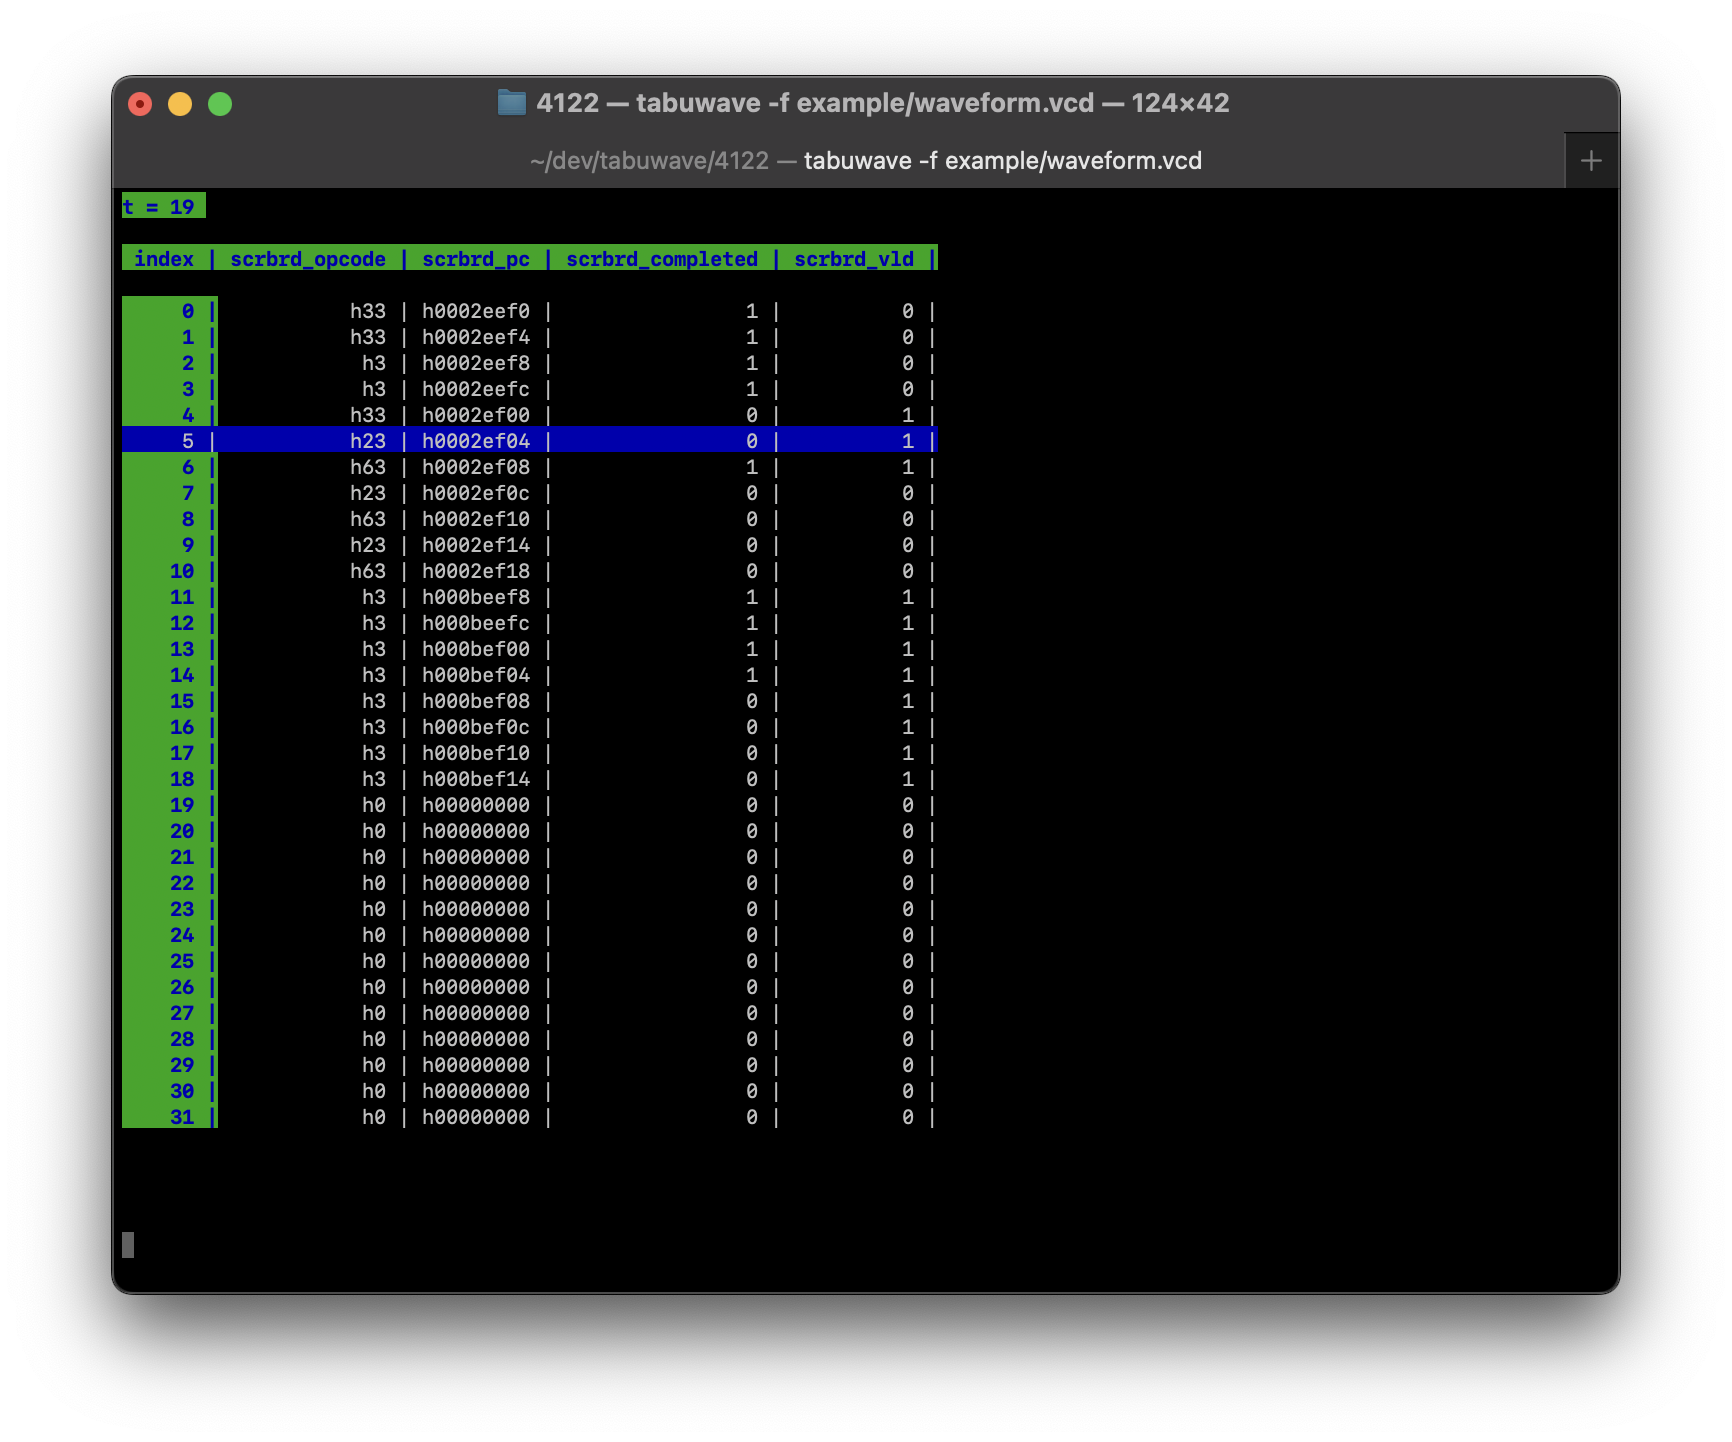
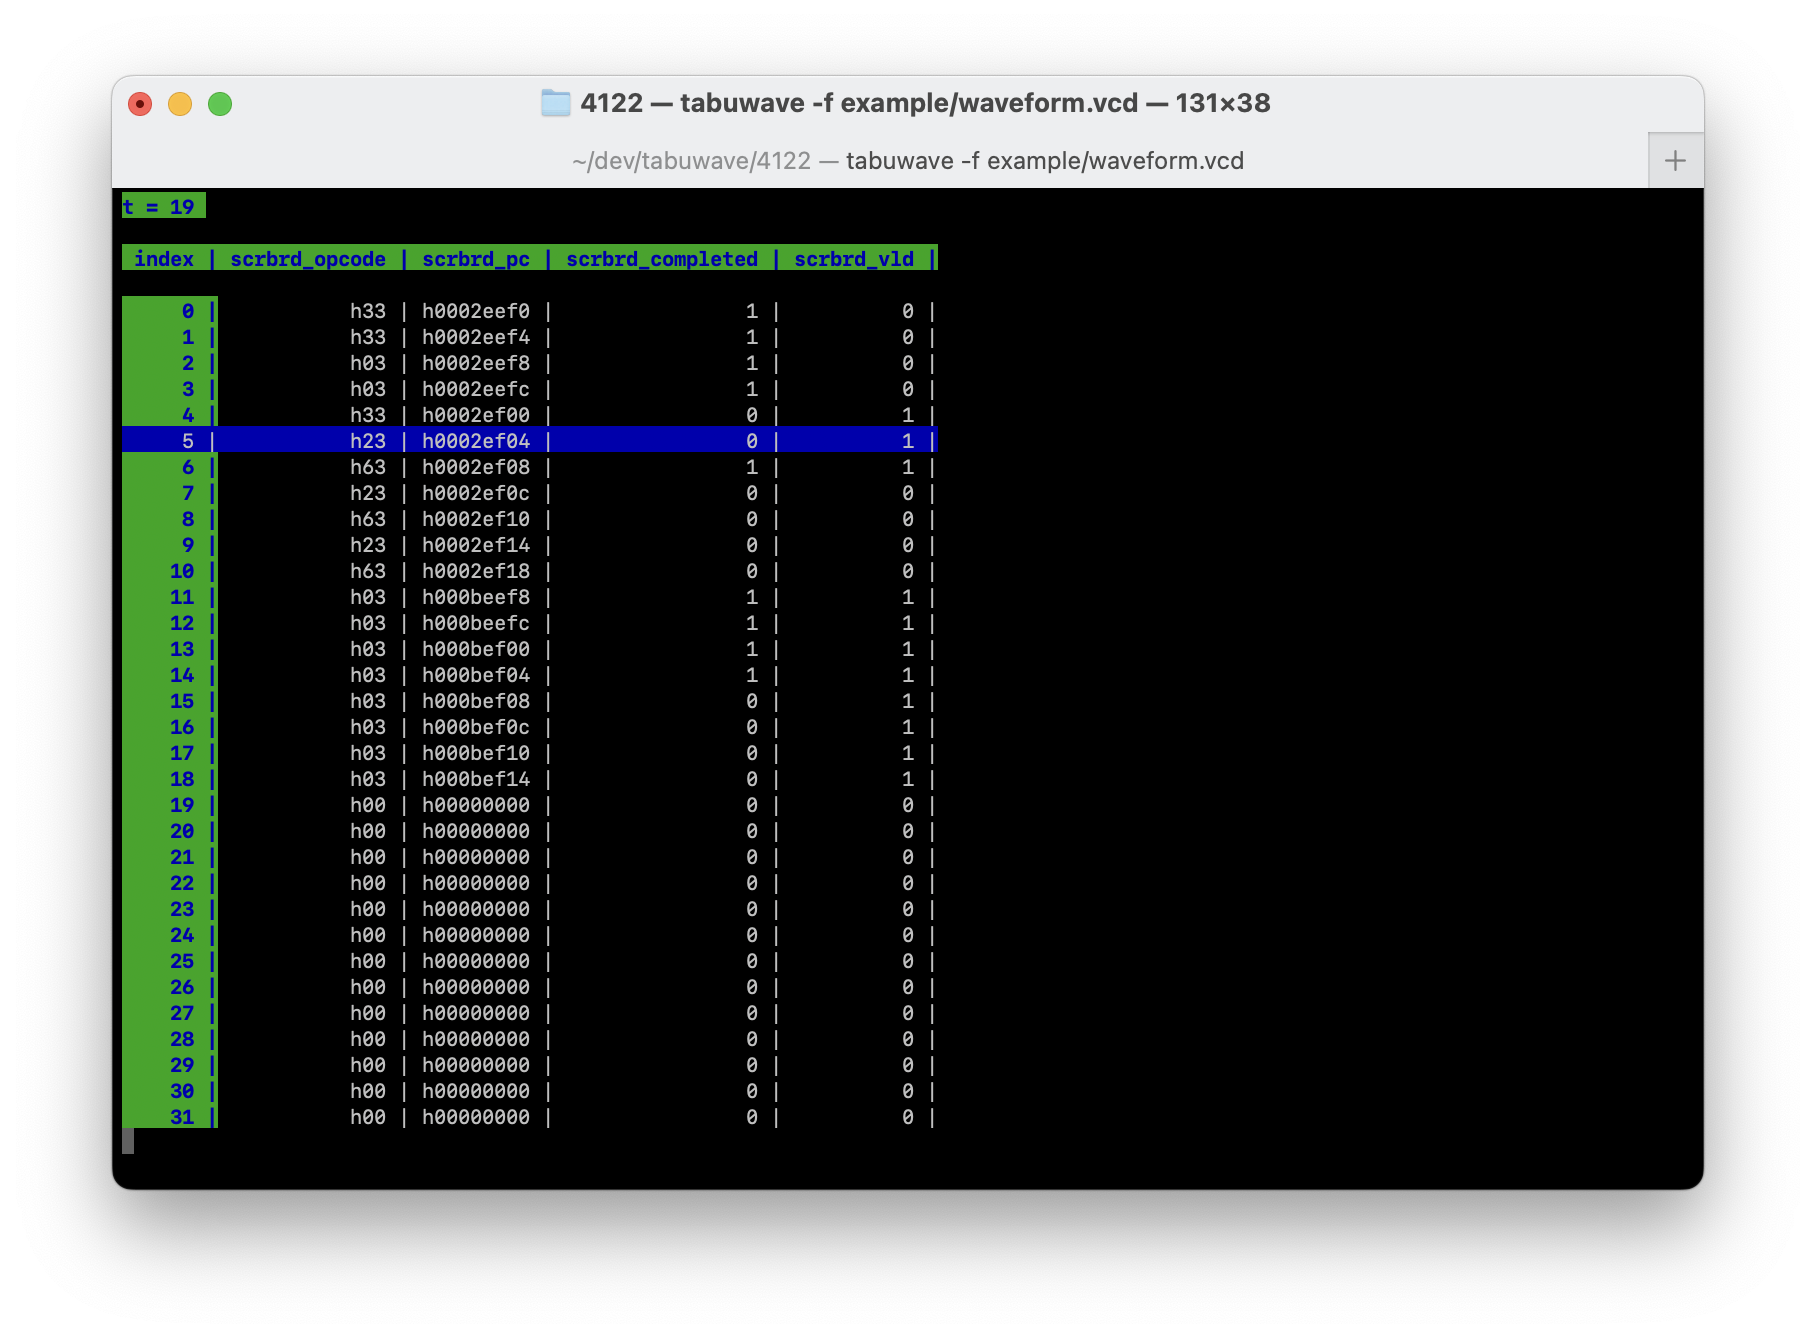
display width padding bugfix

Changed region(s): [[0.0312, 0.0306, 0.9665, 0.9499]]

diff --git a/src/Vcd.cpp b/src/Vcd.cpp
@@ -43,7 +43,7 @@ const std::string VcdVar::getRawValueAt(uint64_t time) {
     bin_val = bin_val.substr(1, bin_val.size());
     std::ostringstream stringStream;
     if (size > 1) {
-        stringStream << 'h' << std::hex << std::setw(ceil(size / 4));
+        stringStream << 'h' << std::hex << std::setw(ceil(size / 4.0));
         if (bin_val.at(0) == 'x') {
             stringStream << std::setfill('x') << 'x';
         } else {
@@ -66,7 +66,7 @@ size_t VcdVecScope::getSize() {
 }
 
 size_t VcdVecScope::getWidth() {
-    return std::max(name.size() + 1, (size_t) ceil(dynamic_cast<VcdVar*>(children.begin()->second)->getSize() / 4) + 2);
+    return std::max(name.size() + 1, (size_t) ceil(dynamic_cast<VcdVar*>(children.begin()->second)->getSize() / 4.0) + 2);
 }
 
 const std::vector<std::string> VcdVecScope::getValueAt(uint64_t time, size_t size) {

diff --git a/README.md b/README.md
@@ -26,7 +26,7 @@ module load boost
 make            # to use std::thread multithreading
 make USE_OMP=1  # to use OpenMP
 
-./tabuwave -f vcd/test.vcd 
+./tabuwave -f example/waveform.vcd 
 ```
 NOTE: The `ncurses` dynamic library on PACE-ICE causes a segfault when `newpad` is called, so the TUI is essentially unusable there. However, you can still run on PACE-ICE to see the parse times and value interval processing times.
 
@@ -34,7 +34,7 @@ NOTE: The `ncurses` dynamic library on PACE-ICE causes a segfault when `newpad` 
 
 Run with (for example):
 ```
-./tabuwave -f vcd/test.vcd 
+./tabuwave -f example/waveform.vcd 
 ```
 See help text with `-h`
 
@@ -66,6 +66,8 @@ When run, Tabuwave will perform parsing and preprocessing and report the process
 
 # Example
 
+When would you use a tabular waveform viewer? 
+
 Suppose you have designed a simple processor, and an assertion for your design related to verifying load behavior failed at t=19ps. You have a scoreboard-type data structure to keep track of instructions which is represented as arrays (`scrbrd_pc`, `scrbrd_opcode`) and masks (`scrbrd_completed`, `scrbrd_vld`), and to debug help the failure, you want to find the PCs for all the loads that haven't completed yet.
 
 In a traditional waveform viewer (GTKWave shown below), the unpacked arrays and multibit signals are laid out in vertical rows. It can be hard to visualize this data side-by-side and match the different properties at each index.
@@ -92,3 +94,4 @@ This is a custom project submission for ECE 4122, so below are what fulfill the 
     - See [Parser.cpp](src/Parser.cpp)
     - Multithreading is used to process vcd data for each `VcdVar` into its own interval_map in parallel.
     - Both hand-threading with `std::thread` (distributing work as evenly as possible among the available concurrent threads supported by hardware) and multithreading using `OpenMP` are implemented and can be switched/selected during compile time. See usage instructions.
+
